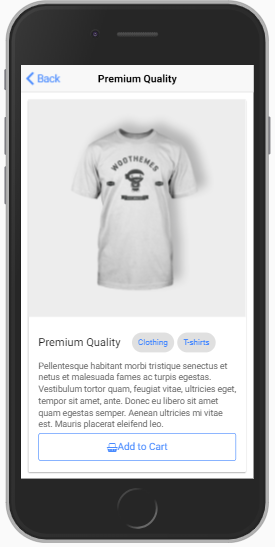
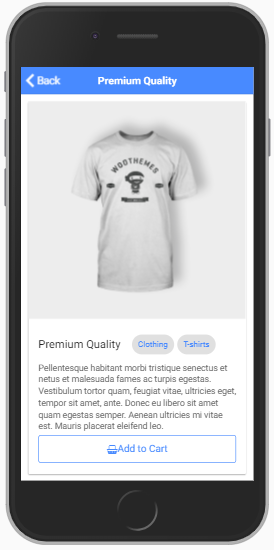
implementing shopping cart button using storage and showed selected products and quantity on console

diff --git a/src/pages/product-details/product-details.ts b/src/pages/product-details/product-details.ts
@@ -1,6 +1,8 @@
 import { Component } from '@angular/core';
-import { NavController, NavParams } from 'ionic-angular';
+import { NavController, NavParams, ToastController } from 'ionic-angular';
 import * as WC from 'woocommerce-api';
+
+import { Storage } from '@ionic/storage';
 
 
 @Component({
@@ -13,7 +15,7 @@ export class ProductDetailsPage {
   WooCommerce: any;
   reviews: any[] = [];
 
-  constructor(public navCtrl: NavController, public navParams: NavParams) {
+  constructor(public navCtrl: NavController, public navParams: NavParams, public storage: Storage, public toastCtrl: ToastController) {
 
     this.product = this.navParams.get("product");
     console.log(this.product);
@@ -34,5 +36,43 @@ export class ProductDetailsPage {
     
   }
 
+  addToCart(product) {
+    this.storage.get("cart").then((data) => {
+      if (data == null || data.length == 0) {
+       data = [];
+        data.push({
+         "product": product,
+         "qty": 1,
+         "amount": parseFloat(product.price)
+       })
+     } else {
+        let added = 0;
+        for (let i = 0; i < data.length; i++) {
+          if (product.id == data[i].product.id) {
+           let qty = data[i].qty;
+            console.log("Product is already in the cart");
+            data[i].qty = qty + 1;
+           data[i].amount = parseFloat(data[i].amount) + parseFloat(data[i].product.price);
+           added = 1;
+         }
+        }
+        if (added == 0) {
+         data.push({
+           "product": product,
+           "qty": 1,
+           "amount": parseFloat(product.price)
+         })
+       }
+      }
+      this.storage.set("cart", data).then(() => {
+       console.log("Cart Updated");
+       console.log(data);
+        this.toastCtrl.create({
+         message: "Cart Updated",
+         duration: 3000
+       }).present();
+      })
+    })
+  }
 
 }

diff --git a/src/app/app.module.ts b/src/app/app.module.ts
@@ -11,6 +11,8 @@ import { ProductDetailsPage } from './../pages/product-details/product-details';
 import { StatusBar } from '@ionic-native/status-bar';
 import { SplashScreen } from '@ionic-native/splash-screen';
 
+import { IonicStorageModule } from '@ionic/storage';
+
 @NgModule({
   declarations: [
     MyApp,
@@ -22,6 +24,7 @@ import { SplashScreen } from '@ionic-native/splash-screen';
   imports: [
     BrowserModule,
     IonicModule.forRoot(MyApp),
+    IonicStorageModule.forRoot()
   ],
   bootstrap: [IonicApp],
   entryComponents: [

diff --git a/src/pages/product-details/product-details.html b/src/pages/product-details/product-details.html
@@ -1,6 +1,6 @@
 <ion-header>
 
-  <ion-navbar>
+  <ion-navbar color="primary">
     <ion-title>{{ product.title }}</ion-title>
   </ion-navbar>
 
@@ -28,7 +28,7 @@
 
     <p [innerHTML]="product.description"></p>
 
-    <button ion-button ion-left block outline color="primary">
+    <button ion-button ion-left block outline color="primary" (click)="addToCart(product)">
       <ion-icon name="basket"></ion-icon>Add to Cart
     </button>
 
